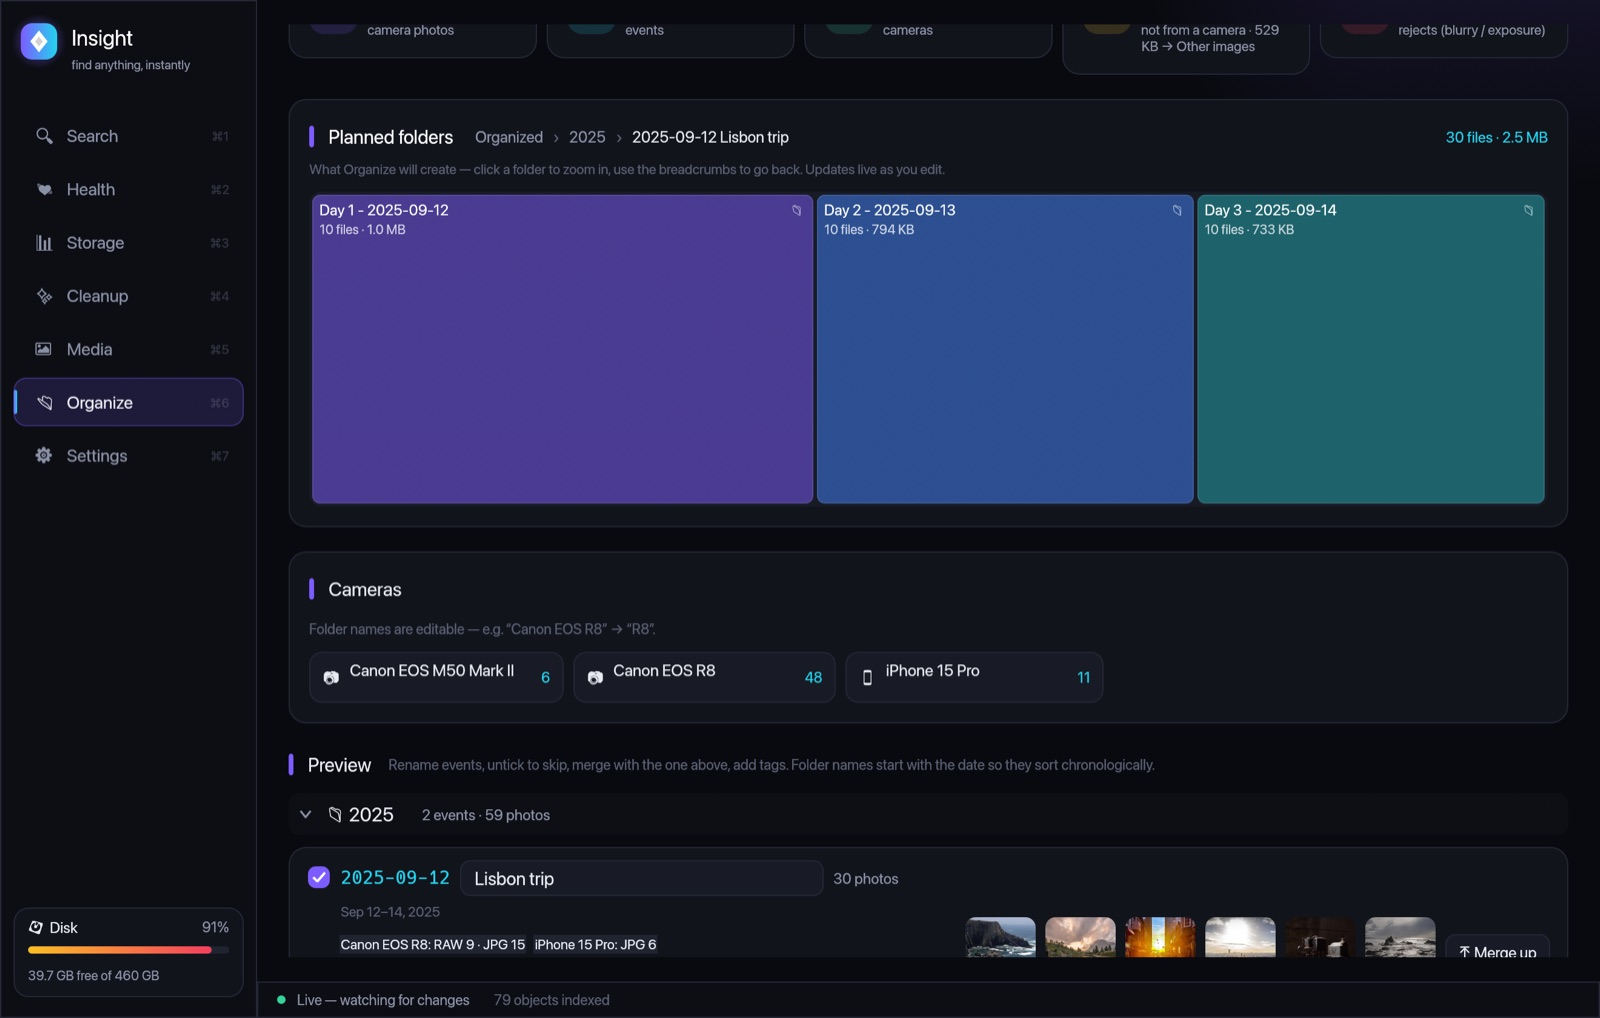
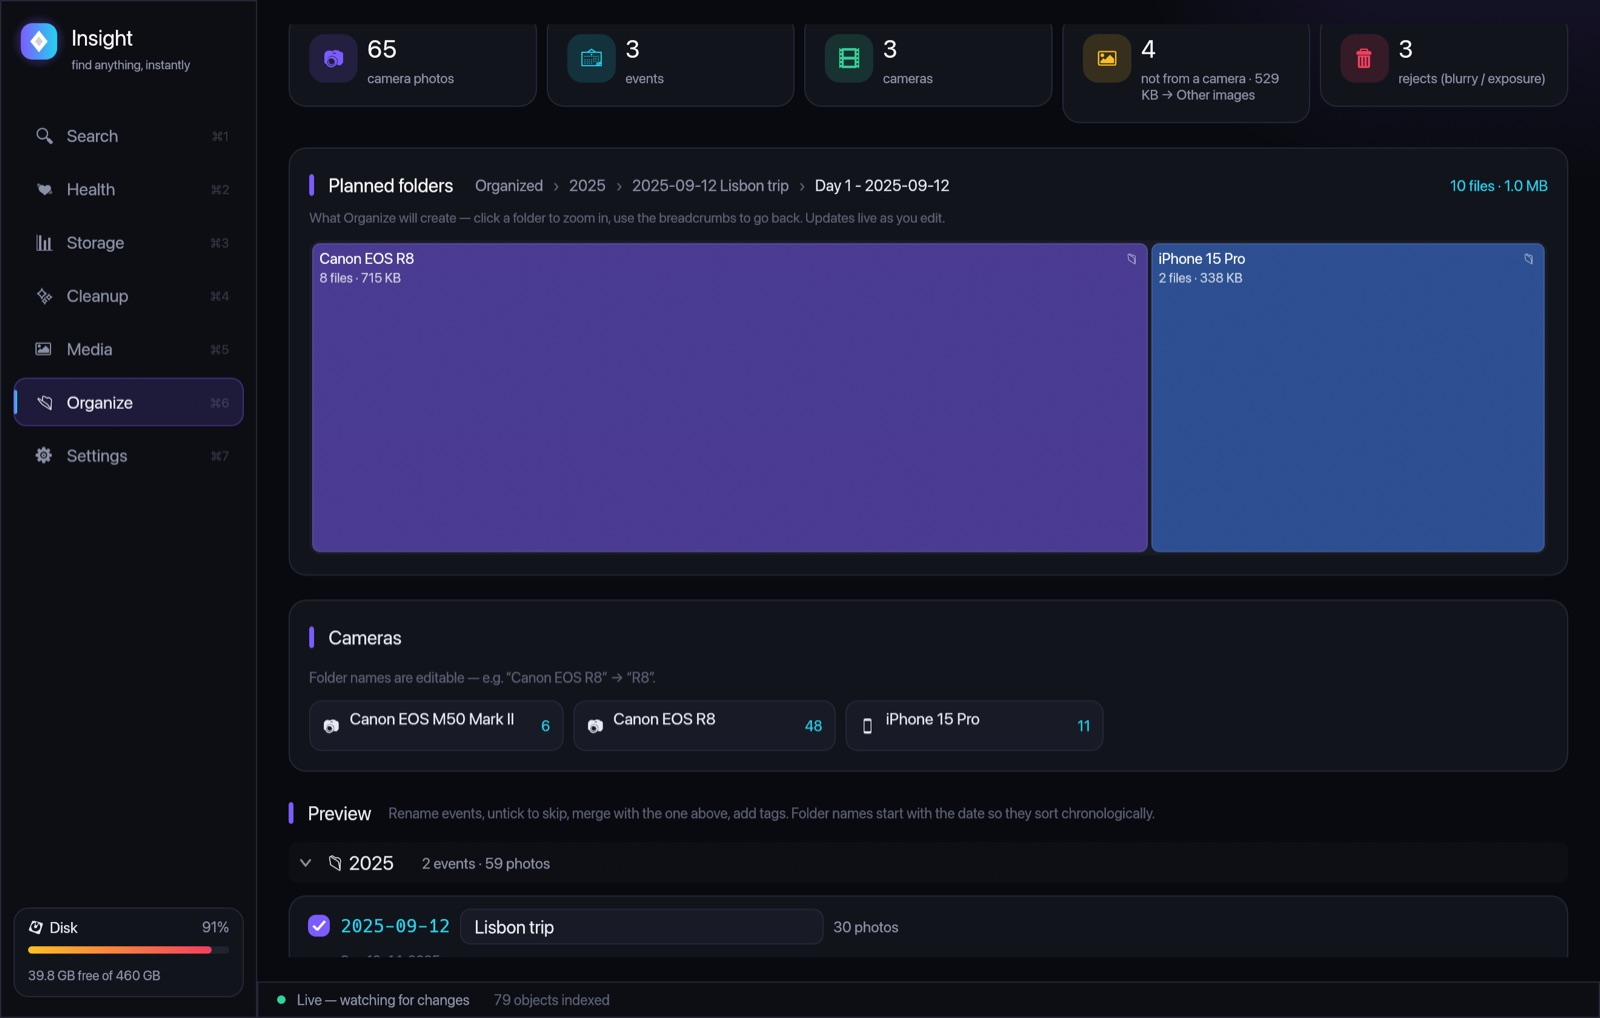
Folder maps visible by default on Media and Organize (source picker)

diff --git a/src/ui/organize_view.rs b/src/ui/organize_view.rs
@@ -47,7 +47,7 @@ impl OrganizeUi {
             src: pics.to_string_lossy().into_owned(),
             dest: pics.join("Organized").to_string_lossy().into_owned(),
             opts: Options::default(),
-            browse: false,
+            browse: true,
             map: FolderMap::default(),
             progress: Arc::new(Progress::default()),
             scan_job: Job::default(),
@@ -98,6 +98,7 @@ impl InsightApp {
         o.scanned = (o.src.clone(), o.dest.clone());
         let quality = o.opts.rejects;
         o.scan_job.start(ctx, move || organize::scan(&src, Some(&dest), &prog, quality));
+        o.browse = false; // the planned-folders map takes over once there's a preview
     }
 
     fn organize_replan(&mut self) {
@@ -196,7 +197,7 @@ impl InsightApp {
                     ui.label(egui::RichText::new("Photos from").color(MUTED));
                     ui.horizontal(|ui| {
                         ui.add(egui::TextEdit::singleline(&mut self.organize.src).desired_width(460.0).hint_text("A messy folder, a card dump, ~/Pictures…"));
-                        if theme::chip(ui, "📁 Browse", self.organize.browse, pal.accent2, Id::unique("org-browse")).clicked() {
+                        if theme::chip(ui, "📁 Folder map", self.organize.browse, pal.accent2, Id::unique("org-browse")).clicked() {
                             self.organize.browse = !self.organize.browse;
                         }
                     });
@@ -209,7 +210,8 @@ impl InsightApp {
                     ui.add_space(8.0);
                     let eng = self.engine.clone();
                     if self.organize.map.show(ui, &eng, pal, "org-map", &mut self.organize.src, 260.0) {
-                        self.organize.browse = false;
+                        let ctx = ui.ctx().clone();
+                        self.organize_analyze(&ctx);
                     }
                 }
                 ui.add_space(10.0);

diff --git a/src/ui/media_view.rs b/src/ui/media_view.rs
@@ -157,7 +157,7 @@ impl InsightApp {
                     ui.horizontal(|ui| {
                         ui.label(egui::RichText::new("Photos in").color(MUTED));
                         ui.add(egui::TextEdit::singleline(&mut self.settings.media_scope).desired_width(300.0));
-                        if theme::chip(ui, "📁 Browse folders", self.media_browse, pal.accent2, Id::unique("media-browse")).clicked() {
+                        if theme::chip(ui, "📁 Folder map", self.media_browse, pal.accent2, Id::unique("media-browse")).clicked() {
                             self.media_browse = !self.media_browse;
                             self.media_browse_at = ui.input(|i| i.time);
                         }
@@ -173,7 +173,6 @@ impl InsightApp {
                         ui.add_space(8.0);
                         let eng = self.engine.clone();
                         if self.media_map.show(ui, &eng, pal, "media-map", &mut self.settings.media_scope, 300.0) {
-                            self.media_browse = false;
                             self.toast(ui, "Folder selected — press Analyze photos");
                         }
                         ui.add_space(6.0);

diff --git a/src/ui/app.rs b/src/ui/app.rs
@@ -235,7 +235,7 @@ impl InsightApp {
             media_grid: Vec::new(),
             media_grid_title: String::new(),
             media_grid_at: 0.0,
-            media_browse: false,
+            media_browse: true,
             media_browse_at: 0.0,
             media_map: Default::default(),
             organize: super::organize_view::OrganizeUi::new(),

diff --git a/README.md b/README.md
@@ -231,7 +231,7 @@ Measured on a MacBook Pro (Apple M4 Pro, 12 cores, 24 GB, macOS 27), indexing th
 
 **Media**
 - **Photo folder map:** a zoomable treemap of the folders that hold your photos, weighted by size and showing
-  photo counts, with breadcrumbs. Pick a folder to analyze with one click.
+  photo counts, with breadcrumbs, shown right under "Photos in". Pick a folder to analyze with one click; the same map is the Organize source picker.
 - Counts and sizes of images, videos and audio.
 - **Labels:** 94 zero-shot categories (people, pets, places, food, documents, receipts, screenshots, UI
   designs, memes…), shown as a clickable cloud and searchable with `label:`.
